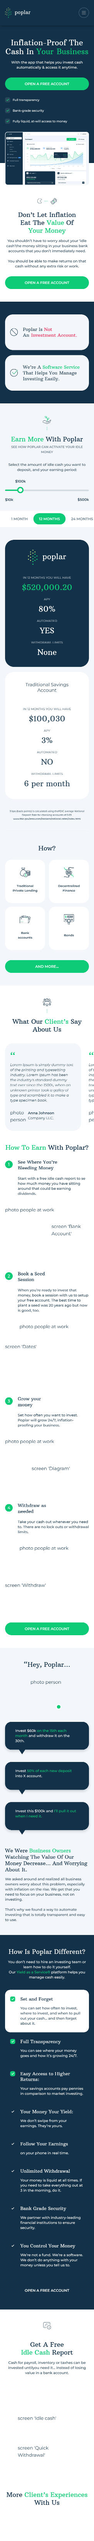
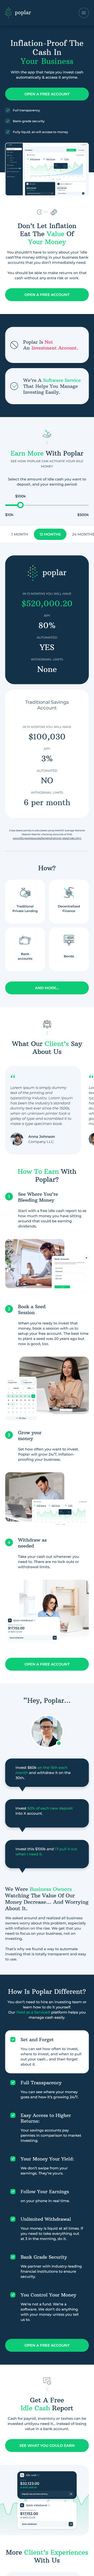
добавлена новая работа

diff --git a/build/index.html b/build/index.html
@@ -565,6 +565,47 @@
                           </picture>
                           <div class="portfolio__smartphone-screen portfolio__scroll">
                             <picture>
+                              <source type="image/webp" srcset="img/content/portfolio/project-screen-mobile-010.webp 1x, img/content/portfolio/project-screen-mobile-010@2x.webp 2x"><img src="img/content/portfolio/project-screen-mobile-010.jpg" srcset="img/content/portfolio/project-screen-mobile-010@2x.jpg 2x" loading="lazy" alt="screen project">
+                            </picture>
+                          </div>
+                        </div>
+                        <div class="portfolio__laptop-image">
+                          <picture>
+                            <source type="image/webp" media="(max-width: 767px)" srcset="img/content/low-quality-3x3.webp 1x, img/content/low-quality-3x3@2x.webp 2x">
+                            <source media="(max-width: 767px)" srcset="img/content/low-quality-3x3.png 1x, img/content/low-quality-3x3@2x.png 2x">
+                            <source type="image/webp" srcset="img/content/laptop.webp 1x, img/content/laptop@2x.webp 2x"><img src="img/content/laptop.png" srcset="img/content/laptop@2x.png 2x" loading="lazy" alt="mockup laptop">
+                          </picture>
+                          <div class="portfolio__laptop-screen portfolio__scroll">
+                            <picture>
+                              <source type="image/webp" media="(max-width: 767px)" srcset="img/content/portfolio/low-quality-3x3.webp 1x, img/content/portfolio/low-quality-3x3@2x.webp 2x">
+                              <source media="(max-width: 767px)" srcset="img/content/portfolio/low-quality-3x3.jpg 1x, img/content/portfolio/low-quality-3x3@2x.jpg 2x">
+                              <source type="image/webp" srcset="img/content/portfolio/project-screen-laptop-010.webp 1x, img/content/portfolio/project-screen-laptop-010@2x.webp 2x"><img src="img/content/portfolio/project-screen-laptop-010.jpg" srcset="img/content/portfolio/project-screen-laptop-010@2x.jpg 2x" loading="lazy" alt="screen laptop">
+                            </picture>
+                          </div>
+                        </div>
+                      </div>
+                      <div class="portfolio__group-info">
+                        <div class="portfolio__group-links"><a class="portfolio__link" href="https://kapitroman.github.io/stocksvc/">
+                            <svg width="18" height="18" aria-hidden="true">
+                              <use xlink:href="#icon-hyperlink"></use>
+                            </svg><span data-lang-key="linkLabels"></span></a><a class="portfolio__link" href="https://github.com/Kapitroman/stocksvc">
+                            <svg width="18" height="18" aria-hidden="true">
+                              <use xlink:href="#icon-github"></use>
+                            </svg><span data-lang-key="codeLabels"></span></a></div>
+                        <div class="portfolio__group-text">
+                          <p class="portfolio__title" data-lang-key="projectNames"></p>
+                          <p class="portfolio__description" data-lang-key="projectDescription"></p>
+                        </div>
+                      </div>
+                    </div>
+                    <div class="portfolio__group">
+                      <div class="portfolio__group-images">
+                        <div class="portfolio__smartphone-image">
+                          <picture>
+                            <source type="image/webp" srcset="img/content/smartphone.webp 1x, img/content/smartphone@2x.webp 2x"><img src="img/content/smartphone.png" srcset="img/content/smartphone@2x.png 2x" loading="lazy" alt="mockup smartphone">
+                          </picture>
+                          <div class="portfolio__smartphone-screen portfolio__scroll">
+                            <picture>
                               <source type="image/webp" srcset="img/content/portfolio/project-screen-mobile-005.webp 1x, img/content/portfolio/project-screen-mobile-005@2x.webp 2x"><img src="img/content/portfolio/project-screen-mobile-005.jpg" srcset="img/content/portfolio/project-screen-mobile-005@2x.jpg 2x" loading="lazy" alt="screen project">
                             </picture>
                           </div>
